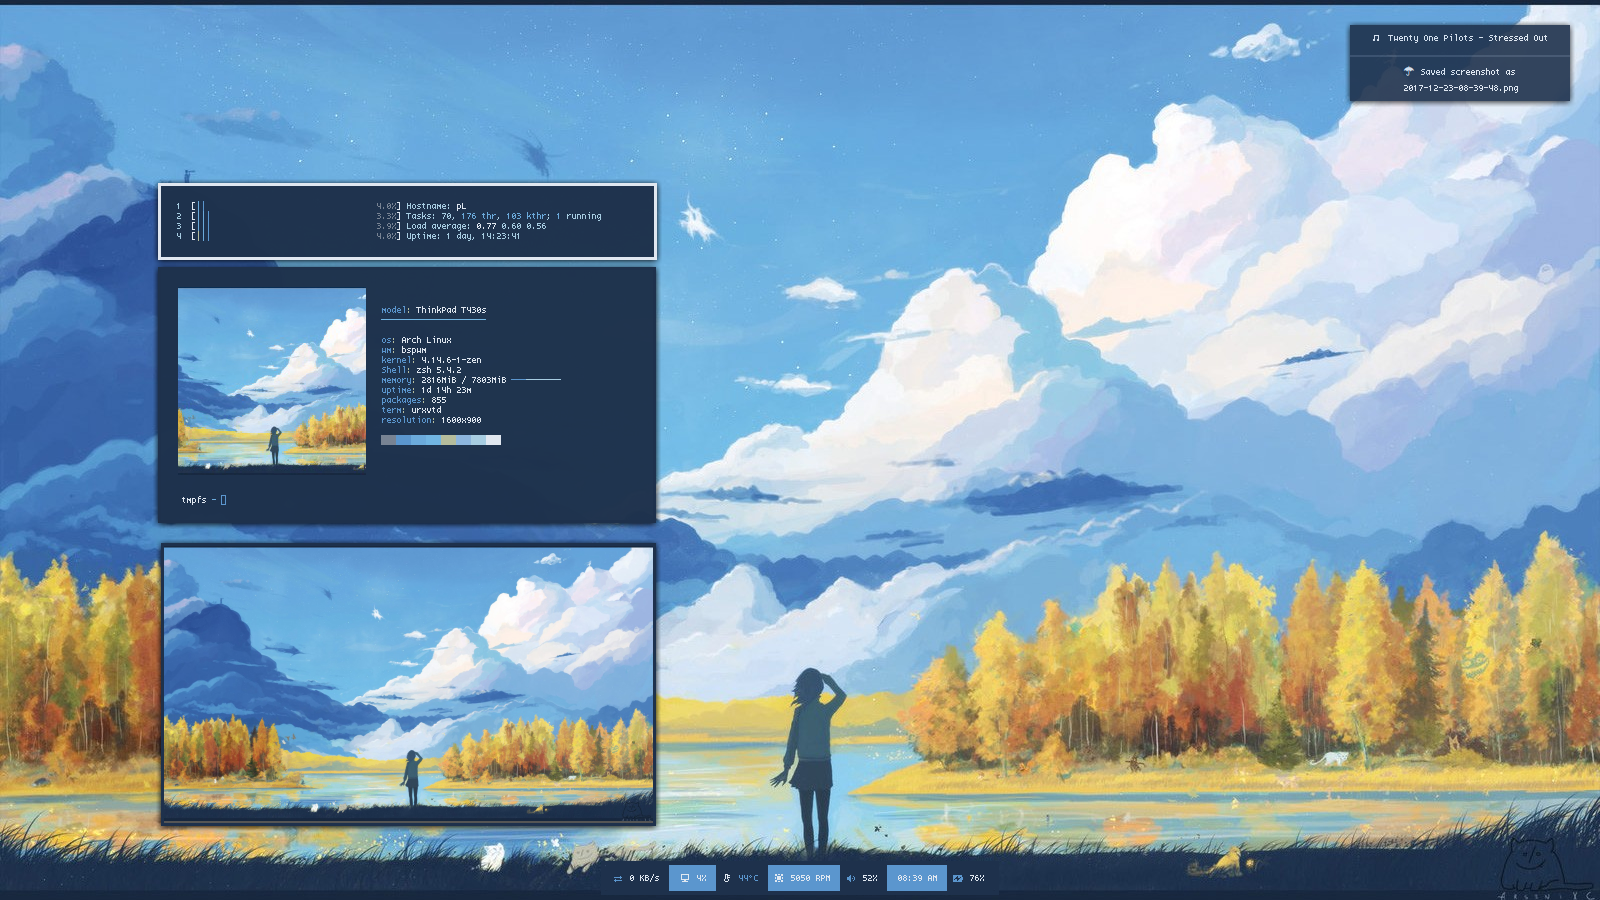
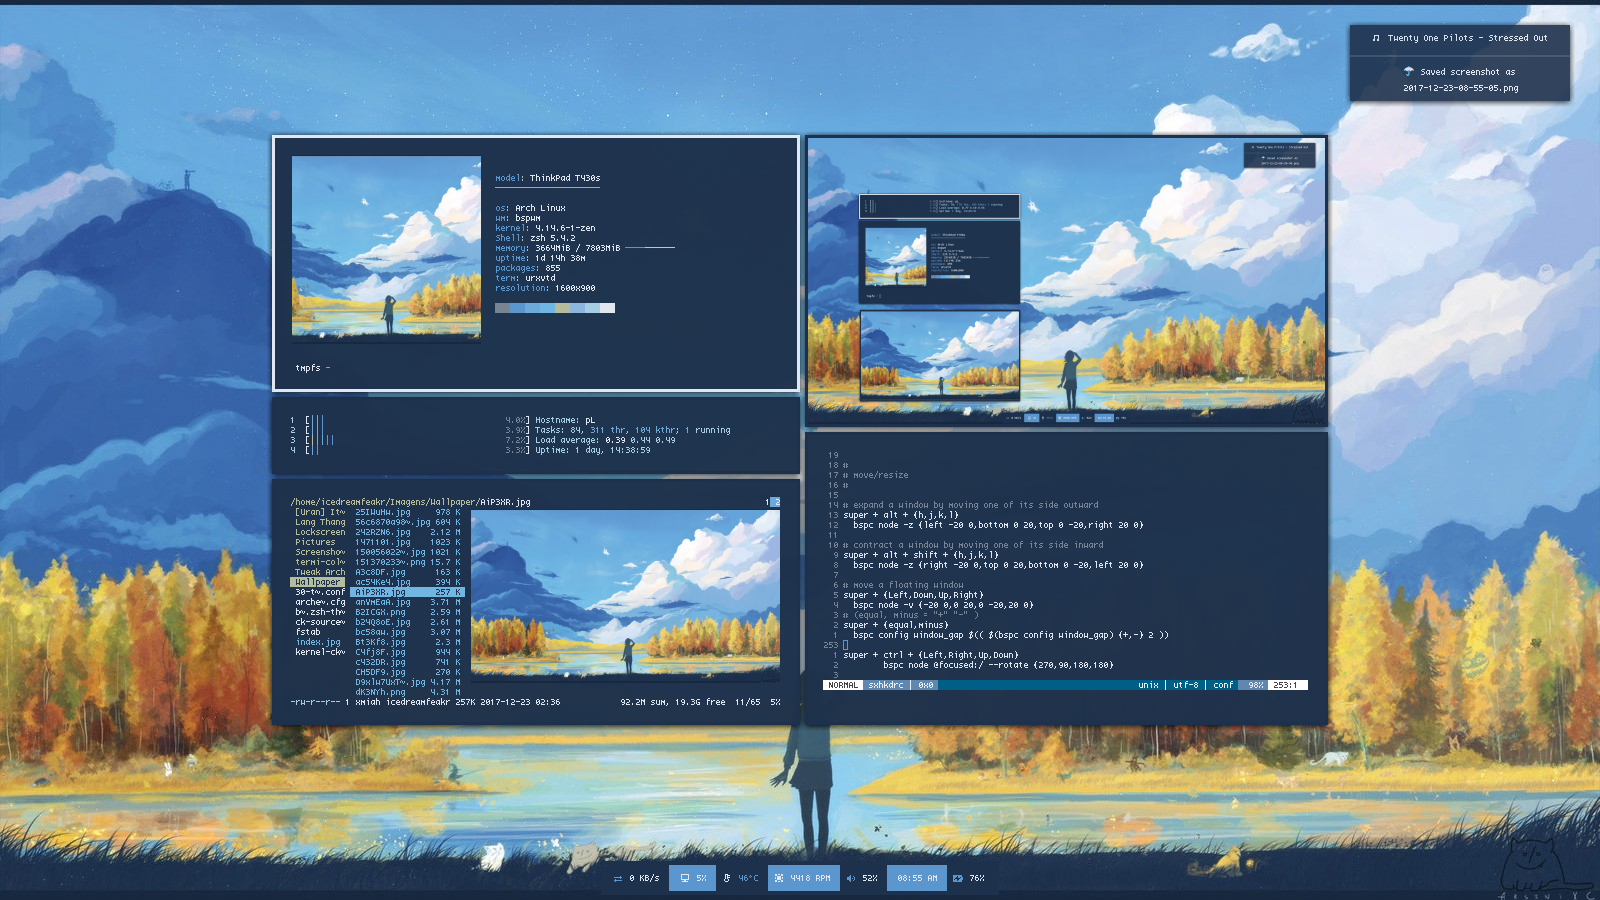
update README.md/scrot

diff --git a/README.md b/README.md
@@ -23,4 +23,13 @@ My **Thinkpad T430s** running **Arch Linux**.
 --------------------
 ***SCREENSHOTS***
 
+* **`polybar`**
+
+
+![12-13-2017](https://raw.githubusercontent.com/xmiah0906/dots/master/scrot/2017-12-23-08-39-48.png "Polybar 12-23-2017")
+
+------------
+
+* **`no-bar`**
+
 ![screenshots](https://raw.githubusercontent.com/xmiah0906/dots/master/scrot/2017-12-08-08-13-43.png "Screenshots 12-08-2017")
